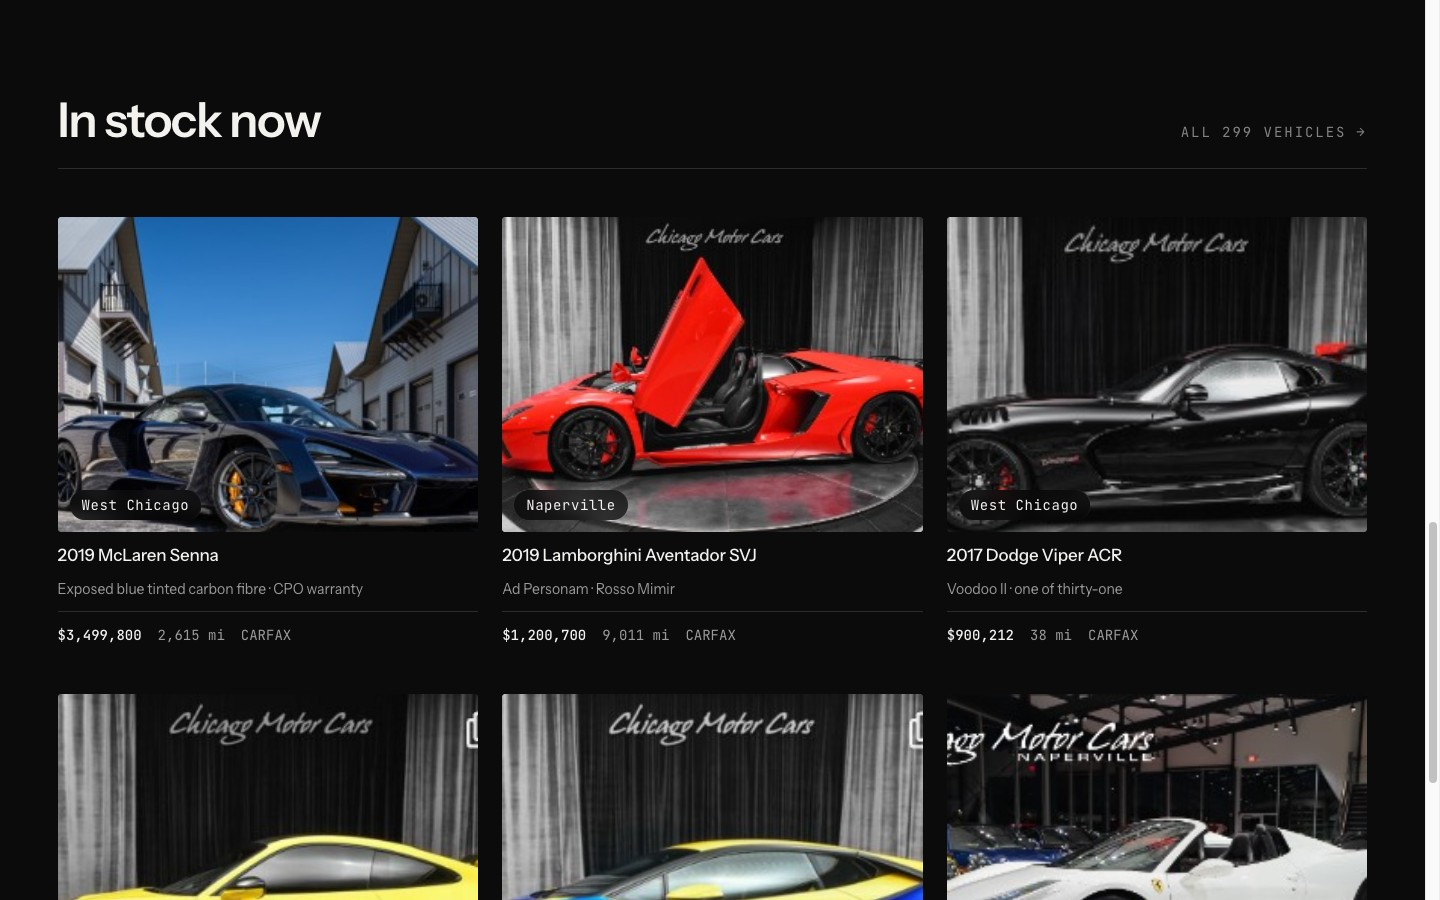
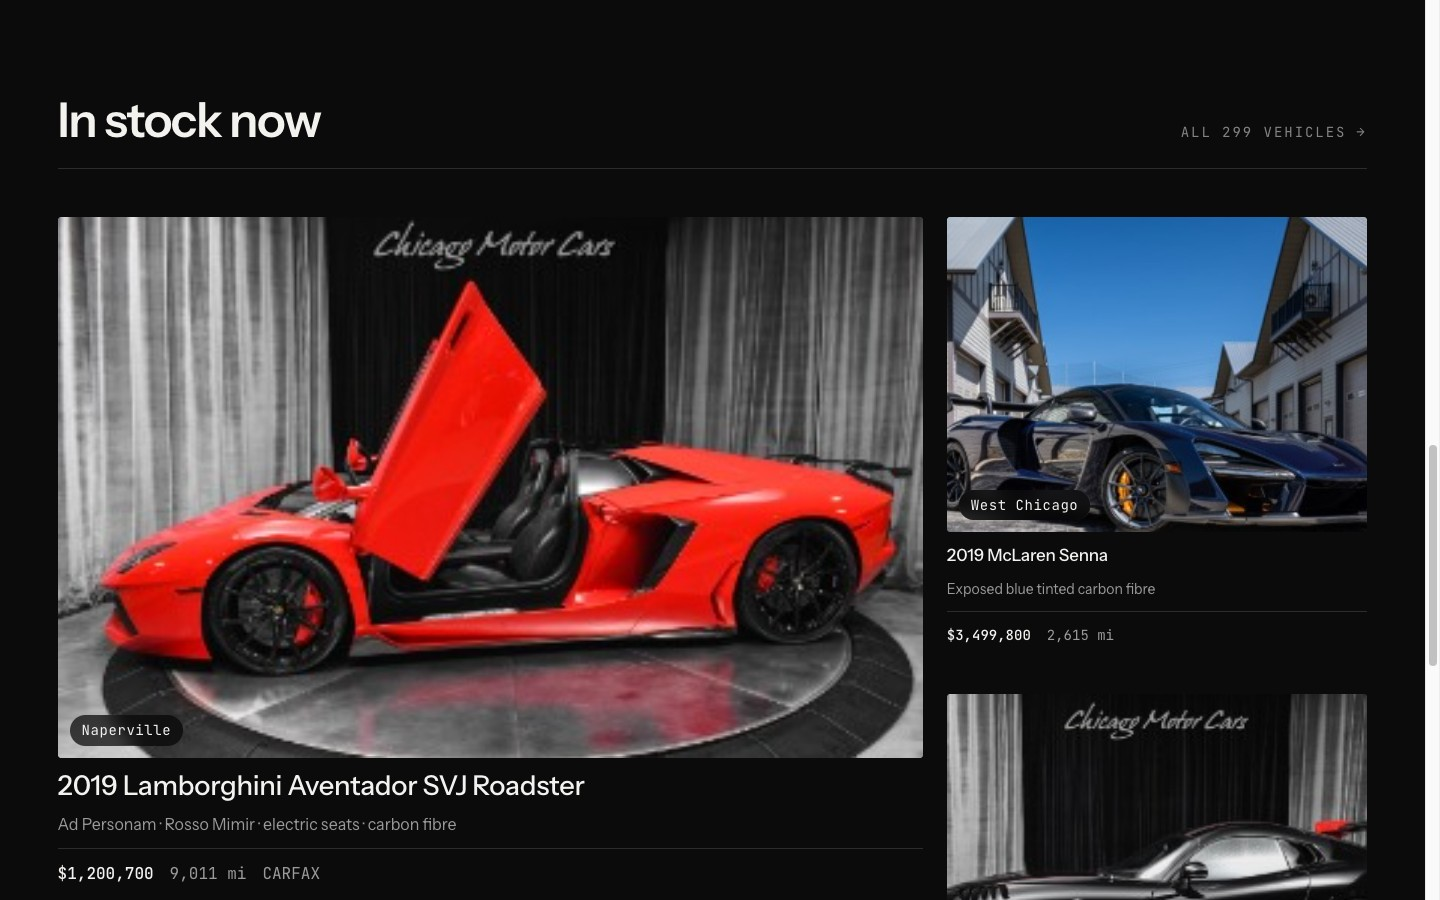
Inventory composed, not gridded
Three equal cards in a row is what every dealer does, including the
current site. One vehicle now leads at twice the size with a second
wide card breaking the rhythm lower down — variation instead of a
metronome. The lead frame also gets enough scale that their ordinary
photography reads as deliberate rather than small.

diff --git a/index.html b/index.html
@@ -11,7 +11,7 @@
 <link href="https://fonts.googleapis.com/css2?family=Instrument+Sans:ital,wght@0,400..700;1,400..700&family=JetBrains+Mono:wght@400;500&display=swap" rel="stylesheet">
 
 <link rel="stylesheet" href="assets/css/tokens.css?v=13">
-<link rel="stylesheet" href="assets/css/main.css?v=18">
+<link rel="stylesheet" href="assets/css/main.css?v=19">
 </head>
 <body>
 
@@ -231,24 +231,24 @@
 
       <div class="inv__grid">
 
+        <a class="vcard vcard--lead" href="#">
+          <span class="vcard__media">
+            <img src="assets/img/stock/cmc-aventador-red.jpg" alt="2019 Lamborghini Aventador SVJ" width="326" height="210" fetchpriority="high">
+            <span class="vcard__place">Naperville</span>
+          </span>
+          <span class="vcard__name">2019 Lamborghini Aventador SVJ Roadster</span>
+          <span class="vcard__trim">Ad Personam &middot; Rosso Mimir &middot; electric seats &middot; carbon fibre</span>
+          <span class="vcard__facts"><b>$1,200,700</b><span>9,011 mi</span><span>CARFAX</span></span>
+        </a>
+
         <a class="vcard" href="#">
           <span class="vcard__media">
             <img src="assets/img/stock/cmc-senna-blue.jpg" alt="2019 McLaren Senna" width="326" height="218" loading="lazy">
             <span class="vcard__place">West Chicago</span>
           </span>
           <span class="vcard__name">2019 McLaren Senna</span>
-          <span class="vcard__trim">Exposed blue tinted carbon fibre &middot; CPO warranty</span>
-          <span class="vcard__facts"><b>$3,499,800</b><span>2,615 mi</span><span>CARFAX</span></span>
-        </a>
-
-        <a class="vcard" href="#">
-          <span class="vcard__media">
-            <img src="assets/img/stock/cmc-aventador-red.jpg" alt="2019 Lamborghini Aventador SVJ" width="326" height="210" loading="lazy">
-            <span class="vcard__place">Naperville</span>
-          </span>
-          <span class="vcard__name">2019 Lamborghini Aventador SVJ</span>
-          <span class="vcard__trim">Ad Personam &middot; Rosso Mimir</span>
-          <span class="vcard__facts"><b>$1,200,700</b><span>9,011 mi</span><span>CARFAX</span></span>
+          <span class="vcard__trim">Exposed blue tinted carbon fibre</span>
+          <span class="vcard__facts"><b>$3,499,800</b><span>2,615 mi</span></span>
         </a>
 
         <a class="vcard" href="#">
@@ -258,7 +258,17 @@
           </span>
           <span class="vcard__name">2017 Dodge Viper ACR</span>
           <span class="vcard__trim">Voodoo II &middot; one of thirty-one</span>
-          <span class="vcard__facts"><b>$900,212</b><span>38 mi</span><span>CARFAX</span></span>
+          <span class="vcard__facts"><b>$900,212</b><span>38 mi</span></span>
+        </a>
+
+        <a class="vcard vcard--wide" href="#">
+          <span class="vcard__media">
+            <img src="assets/img/stock/cmc-huracan-11.jpg" alt="2020 Lamborghini Huracan EVO" width="326" height="210" loading="lazy">
+            <span class="vcard__place">Naperville</span>
+          </span>
+          <span class="vcard__name">2020 Lamborghini Huracán EVO LP640-4</span>
+          <span class="vcard__trim">GT livery &middot; front lift</span>
+          <span class="vcard__facts"><b>$389,800</b><span>4,120 mi</span></span>
         </a>
 
         <a class="vcard" href="#">
@@ -267,28 +277,8 @@
             <span class="vcard__place">Rock Hill</span>
           </span>
           <span class="vcard__name">2022 Porsche 911 GT3</span>
-          <span class="vcard__trim">Racing Yellow &middot; front lift</span>
-          <span class="vcard__facts"><b>$259,000</b><span>2,850 mi</span><span>CARFAX</span></span>
-        </a>
-
-        <a class="vcard" href="#">
-          <span class="vcard__media">
-            <img src="assets/img/stock/cmc-huracan-11.jpg" alt="2020 Lamborghini Huracan EVO GT" width="326" height="210" loading="lazy">
-            <span class="vcard__place">Naperville</span>
-          </span>
-          <span class="vcard__name">2020 Lamborghini Huracán EVO</span>
-          <span class="vcard__trim">LP640-4 &middot; GT livery</span>
-          <span class="vcard__facts"><b>$389,800</b><span>4,120 mi</span><span>CARFAX</span></span>
-        </a>
-
-        <a class="vcard" href="#">
-          <span class="vcard__media">
-            <img src="assets/img/stock/cmc-458-spider.jpg" alt="2014 Ferrari 458 Spider" width="326" height="175" loading="lazy">
-            <span class="vcard__place">Naperville</span>
-          </span>
-          <span class="vcard__name">2014 Ferrari 458 Spider</span>
-          <span class="vcard__trim">Bianco Avus &middot; full PPF</span>
-          <span class="vcard__facts"><b>$319,800</b><span>6,940 mi</span><span>CARFAX</span></span>
+          <span class="vcard__trim">Racing Yellow</span>
+          <span class="vcard__facts"><b>$259,000</b><span>2,850 mi</span></span>
         </a>
 
       </div>

diff --git a/assets/css/main.css b/assets/css/main.css
@@ -928,15 +928,31 @@ select.field__control option { background: var(--bg-raised); color: var(--ink); 
 }
 .inv__all:hover, .inv__all:focus-visible { color: var(--ink); }
 
+/* Not a grid of equals. One vehicle leads at twice the size, the rest
+   fall in behind it — rhythm with variation instead of a metronome, and
+   the lead frame gets enough scale that ordinary photography reads. */
 .inv__grid {
   display: grid;
   grid-template-columns: repeat(3, minmax(0, 1fr));
   gap: var(--sp-7) var(--sp-5);
 }
 
+.vcard--lead { grid-column: span 2; grid-row: span 2; }
+.vcard--lead .vcard__media { aspect-ratio: 16 / 10; }
+.vcard--lead .vcard__name { font-size: clamp(1.25rem, 1.9vw, 1.75rem); line-height: 1.15; }
+.vcard--lead .vcard__trim { font-size: 1rem; }
+.vcard--lead .vcard__facts { font-size: 1rem; }
+
+.vcard--wide { grid-column: span 2; }
+.vcard--wide .vcard__media { aspect-ratio: 21 / 9; }
+
 @media (max-width: 900px) {
   .inv__grid { grid-template-columns: repeat(2, minmax(0, 1fr)); gap: var(--sp-6) var(--sp-4); }
+  .vcard--lead, .vcard--wide { grid-column: span 2; grid-row: auto; }
+  .vcard--lead .vcard__media { aspect-ratio: 16 / 10; }
 }
 @media (max-width: 560px) {
   .inv__grid { grid-template-columns: 1fr; }
+  .vcard--lead, .vcard--wide { grid-column: span 1; }
+  .vcard--wide .vcard__media { aspect-ratio: 4 / 3; }
 }
